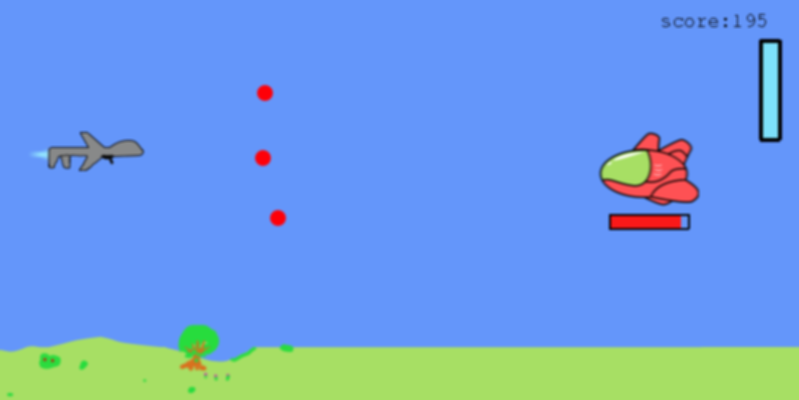
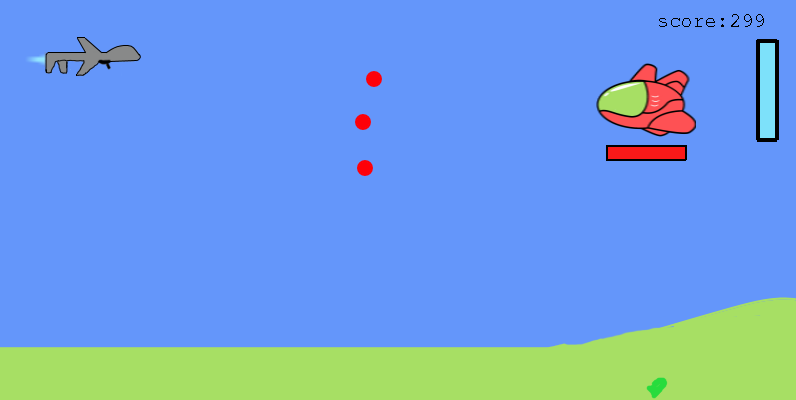
replace with better gifs

diff --git a/index.html b/index.html
@@ -68,18 +68,18 @@
             </div>
 
             <div class="parabox2">
-		            <p class="parabox1txt"><span style="color:black">FLY</span> fast</p>
-                <!-- insert some video here -->
+                <br/>
+            
+		        <p class="parabox1txt"><span style="color:black">FLY</span> fast</p>
 
                 <p class="parabox1txt"><span style="color:black">SHOOT</span> quickly</p>
-                <!-- insert some video here -->
 
                 <p class="parabox1txt"><span style="color:black">CONQUER</span> your enemies</p>
-                <!-- insert some video here -->
-                <img src="dronegame.gif" width=50%>
+                
+                <img src="droneboss.png" width=100%>
                 
                 <p class="parabox1txt">A great way to pass the time!</p>
-                
+                <br/>
             </div>
 
             <div class="parallax3"></div>

diff --git a/style.css b/style.css
@@ -94,7 +94,7 @@ a {
 
 .parallax3 {
     /* The image used */
-    background-image: url("droneboss.png");
+    background-image: url("droneback.gif");
 
     /* Set a specific height */
     min-height: 500px;
